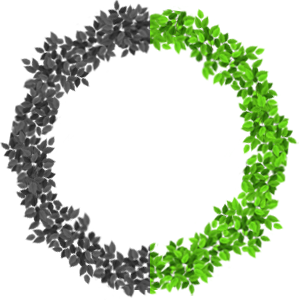
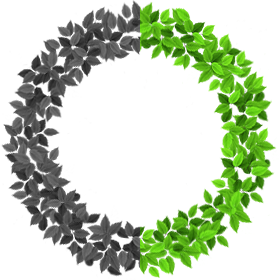
feat: update progressBar leaves BGs

diff --git a/src/sass/components/_progress.scss b/src/sass/components/_progress.scss
@@ -19,8 +19,8 @@
 .outline {
    position: absolute;
    // transform: scale(0.9);
-   width: 92%;
-   height: 92%;
+   width: 87%;                           //lower this value to shrink outre circle /100
+   height: 87%;
    border-radius: 50%;
    // background: blue;
    background: rgba(0, 0, 0, 0.35);
@@ -42,7 +42,7 @@
    flex-direction: column;
    align-items: center;
    justify-content: space-between;
-   width: 66%;
+   width: 66%;                            //make this value higher to shrink inner brim /57
    height: 66%;
    border-radius: 50%;
    background: url("../../../assets/img/0.jpg");
@@ -52,12 +52,12 @@
 }
 
 .prep, .inhale, .exhale {
-   padding-top: 30px;
-   font-size: 1.4rem;
+   padding-top: 35px;
+   font-size: 1.7rem;
 }
 .prep-value, .inhale-value, .exhale-value {
-   padding-top: 20px;
-   font-size: 7rem;
+   padding-top: 35px;
+   font-size: 8rem;
    width: 100%;
    text-align: center;
 }

diff --git a/src/sass/style.css b/src/sass/style.css
@@ -598,8 +598,8 @@ body {
 
 .outline {
   position: absolute;
-  width: 92%;
-  height: 92%;
+  width: 87%;
+  height: 87%;
   border-radius: 50%;
   background: rgba(0, 0, 0, 0.35);
 }
@@ -638,13 +638,13 @@ body {
 }
 
 .prep, .inhale, .exhale {
-  padding-top: 30px;
-  font-size: 1.4rem;
+  padding-top: 35px;
+  font-size: 1.7rem;
 }
 
 .prep-value, .inhale-value, .exhale-value {
-  padding-top: 20px;
-  font-size: 7rem;
+  padding-top: 35px;
+  font-size: 8rem;
   width: 100%;
   text-align: center;
 }

diff --git a/src/script.js b/src/script.js
@@ -18,6 +18,7 @@ const stroke = document.querySelector(".stroke")
 const overlay = document.getElementById("overlay")
 const modalWindow = document.querySelector(".modal-window")
 const modalCloseBtn = document.querySelector(".modal-close-btn")
+const combination = '09876'
 let durationMenuOpen = false
 let durationValue = 0
 let isPaused = true

diff --git a/index.html b/index.html
@@ -48,7 +48,6 @@
                <div class="setDurationBtn__burger"></div>
             </div>
          </div>
-
          
       </div>
    </main>
